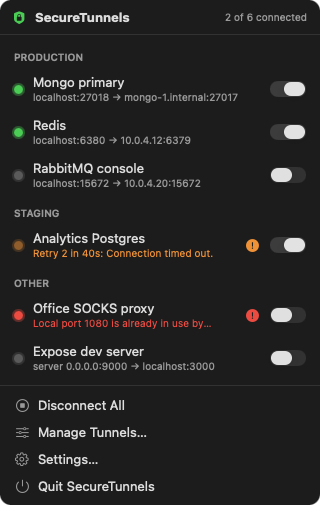
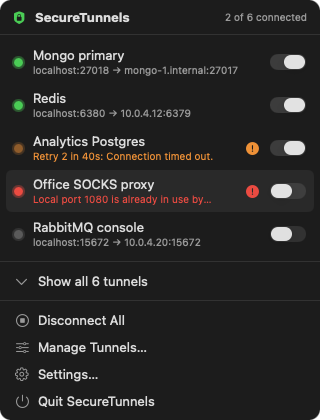
Compact popover with active tunnels first, toolbar labels with text, drop toolbar import
The popover lists at most five tunnels, connected ones first, then connecting, failed and idle, with a
Show all row that expands to the full grouped list. Toolbar buttons show icon and text. Import lives
in Settings only.

diff --git a/Sources/SecureTunnels/Views/MenuBarView.swift b/Sources/SecureTunnels/Views/MenuBarView.swift
@@ -4,6 +4,10 @@ import SecureTunnelsCore
 struct MenuBarView: View {
   @Environment(TunnelManager.self) private var manager
   @Environment(\.openWindow) private var openWindow
+  @AppStorage("menuShowsAllTunnels") private var showAll = false
+
+  /// How many rows the compact list shows before "Show all".
+  static let compactLimit = 5
 
   var body: some View {
     VStack(spacing: 0) {
@@ -11,7 +15,7 @@ struct MenuBarView: View {
       Divider()
       if manager.tunnels.isEmpty {
         emptyState
-      } else {
+      } else if showAll || manager.tunnels.count <= Self.compactLimit {
         ScrollView {
           VStack(spacing: 1) {
             ForEach(manager.groups, id: \.self) { group in
@@ -26,11 +30,48 @@ struct MenuBarView: View {
           .padding(6)
         }
         .frame(maxHeight: 460)
+      } else {
+        VStack(spacing: 1) {
+          ForEach(compactTunnels) { tunnel in
+            TunnelMenuRow(tunnel: tunnel, showDetails: { showDetails(tunnel.id) })
+          }
+        }
+        .padding(6)
+      }
+      if manager.tunnels.count > Self.compactLimit {
+        Divider()
+        MenuRowButton(
+          title: showAll ? "Show fewer" : "Show all \(manager.tunnels.count) tunnels",
+          systemImage: showAll ? "chevron.up" : "chevron.down",
+          help: showAll ? "Back to the short list: active tunnels first, then \(Self.compactLimit) at most" : "List every tunnel by group"
+        ) {
+          showAll.toggle()
+        }
+        .padding(6)
       }
       Divider()
       footer
     }
     .frame(width: 320)
+  }
+
+  /// Active tunnels first (connected, then connecting or retrying), then the rest in sidebar order, cut to the limit.
+  private var compactTunnels: [Tunnel] {
+    let ordered = manager.groups.flatMap { manager.tunnels(inGroup: $0) }
+    let ranked = ordered.enumerated().sorted { lhs, rhs in
+      let l = rank(lhs.element), r = rank(rhs.element)
+      return l != r ? l < r : lhs.offset < rhs.offset
+    }
+    return Array(ranked.map(\.element).prefix(Self.compactLimit))
+  }
+
+  private func rank(_ tunnel: Tunnel) -> Int {
+    switch manager.status(of: tunnel.id) {
+    case .connected: return 0
+    case .connecting, .reconnecting, .waitingForNetwork: return 1
+    case .failed: return 2
+    case .disconnected: return 3
+    }
   }
 
   private var header: some View {

diff --git a/Sources/SecureTunnels/Views/TunnelsWindow.swift b/Sources/SecureTunnels/Views/TunnelsWindow.swift
@@ -42,20 +42,15 @@ struct TunnelsWindow: View {
               systemImage: manager.status(of: id).isActive ? "stop.fill" : "play.fill"
             )
           }
+          .labelStyle(.titleAndIcon)
           .help(manager.status(of: id).isActive ? "Disconnect this tunnel" : "Save and connect this tunnel")
         }
-        Button {
-          importFromSecurePipes()
-        } label: {
-          Label("Import from Secure Pipes", systemImage: "square.and.arrow.down")
-        }
-        .help("Import connections from Secure Pipes")
-        .disabled(!SecurePipesImporter.isAvailable())
         Button {
           requestChange { mode = .settings }
         } label: {
           Label("Settings", systemImage: "gearshape")
         }
+        .labelStyle(.titleAndIcon)
         .help("Launch at login, import and storage")
       }
     }
